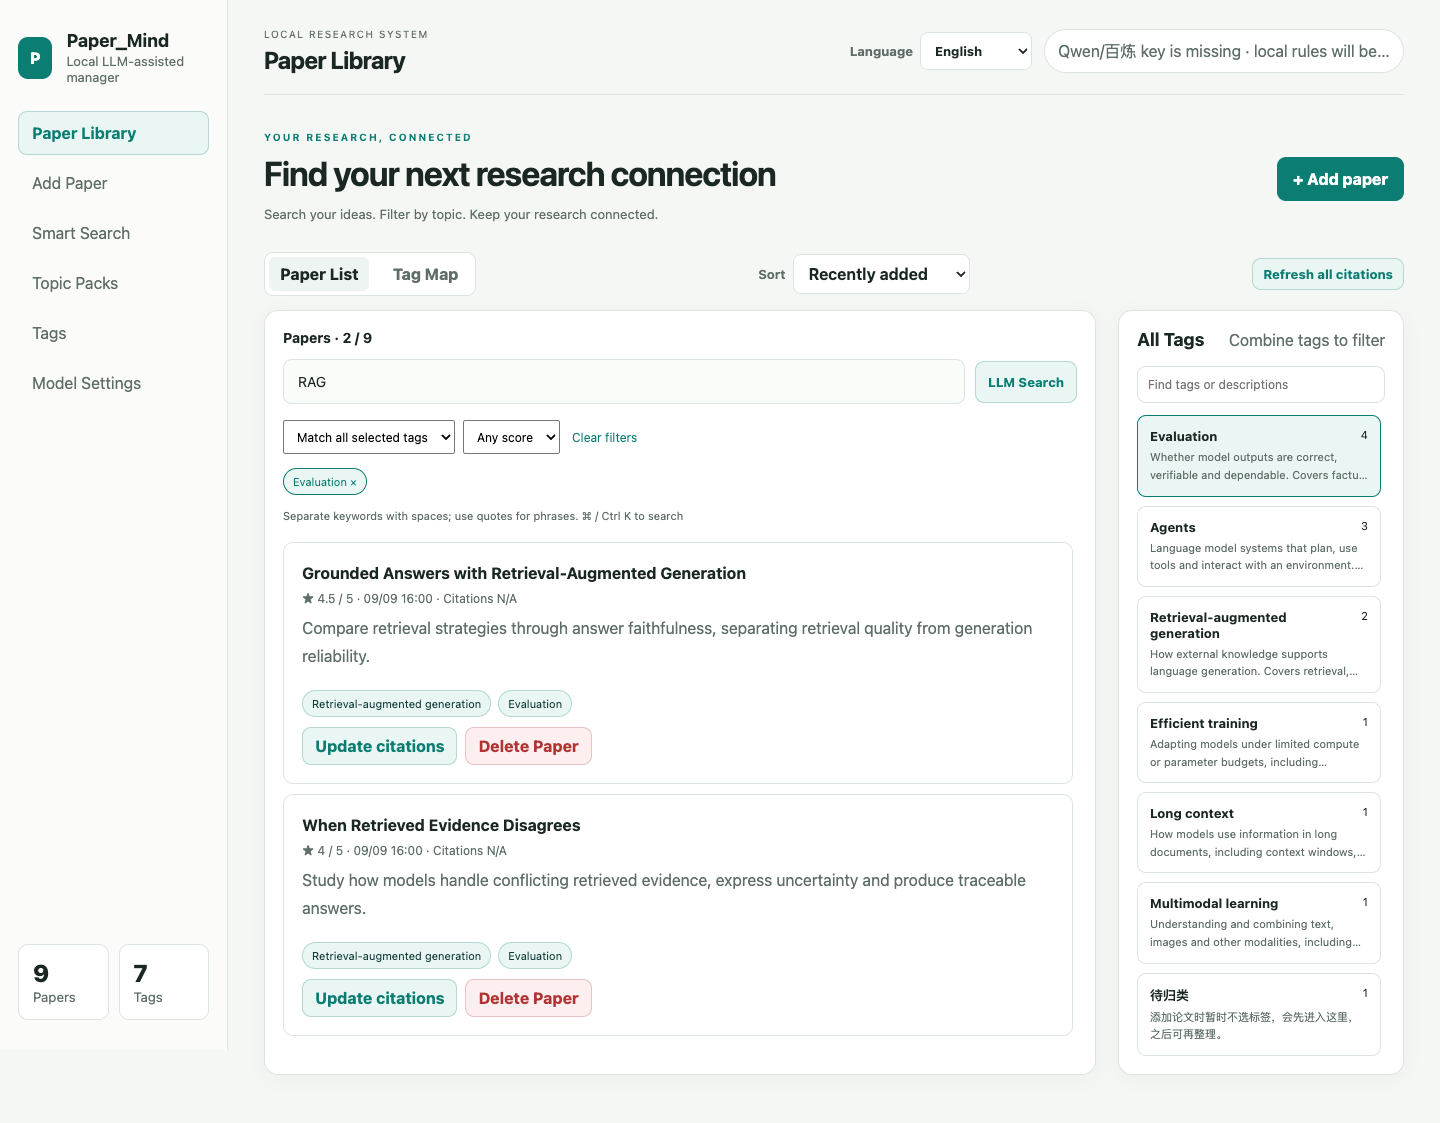
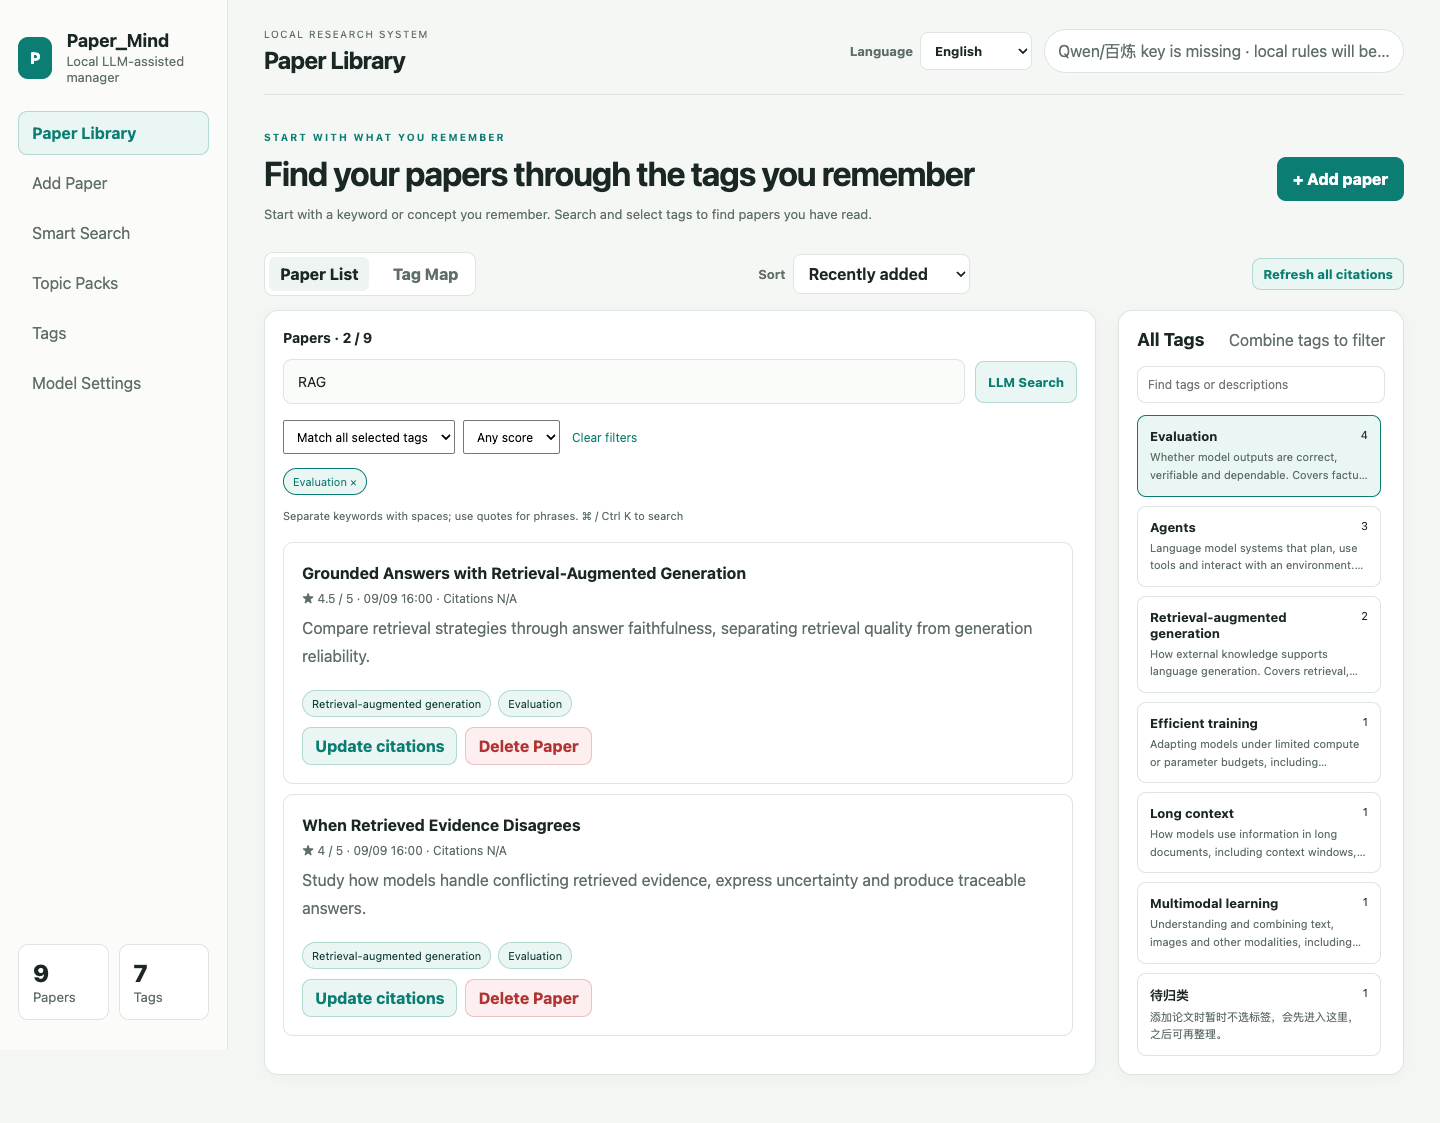
ui: focus library messaging on finding papers through remembered tags

Changed region(s): [[0.1875, 0.0935, 0.6875, 0.2182]]

diff --git a/extension/manager.js b/extension/manager.js
@@ -732,8 +732,9 @@ const translations = {
 const ui = (zh, en) => state.language === "en" ? en : zh;
 function renderLibraryLabels() {
   const labels = {
-    libraryHeading: ["找到下一条研究线索", "Find your next research connection"],
-    libraryHint: ["用关键词查内容，用标签缩小范围。值得保留的想法，都在这里。", "Search your ideas. Filter by topic. Keep your research connected."],
+    libraryEyebrow: ["从记忆中的概念出发", "START WITH WHAT YOU REMEMBER"],
+    libraryHeading: ["通过脑海中的标签，找到你的论文", "Find your papers through the tags you remember"],
+    libraryHint: ["从记得的关键词或概念开始，搜索并选择标签，找回读过的论文。", "Start with a keyword or concept you remember. Search and select tags to find papers you have read."],
     libraryAddPaper: ["＋ 添加论文", "+ Add paper"],
     clearLibraryFilters: ["清除筛选", "Clear filters"],
     librarySearchHelp: ["多个关键词用空格分隔；英文短语可加双引号。⌘ / Ctrl K 快速搜索", 'Separate keywords with spaces; use quotes for phrases. ⌘ / Ctrl K to search'],

diff --git a/extension/manager.html b/extension/manager.html
@@ -120,7 +120,7 @@
 
         <section class="view active" id="view-papers">
           <div class="library-intro">
-            <div><p class="eyebrow" id="libraryEyebrow">YOUR RESEARCH, CONNECTED</p><h3 id="libraryHeading">找到下一条研究线索</h3><p id="libraryHint">用关键词查内容，用标签缩小范围。值得保留的想法，都在这里。</p></div>
+            <div><p class="eyebrow" id="libraryEyebrow">从记忆中的概念出发</p><h3 id="libraryHeading">通过脑海中的标签，找到你的论文</h3><p id="libraryHint">从记得的关键词或概念开始，搜索并选择标签，找回读过的论文。</p></div>
             <button class="primary-button" id="libraryAddPaper" type="button">＋ 添加论文</button>
           </div>
           <div class="paper-library-toolbar">
